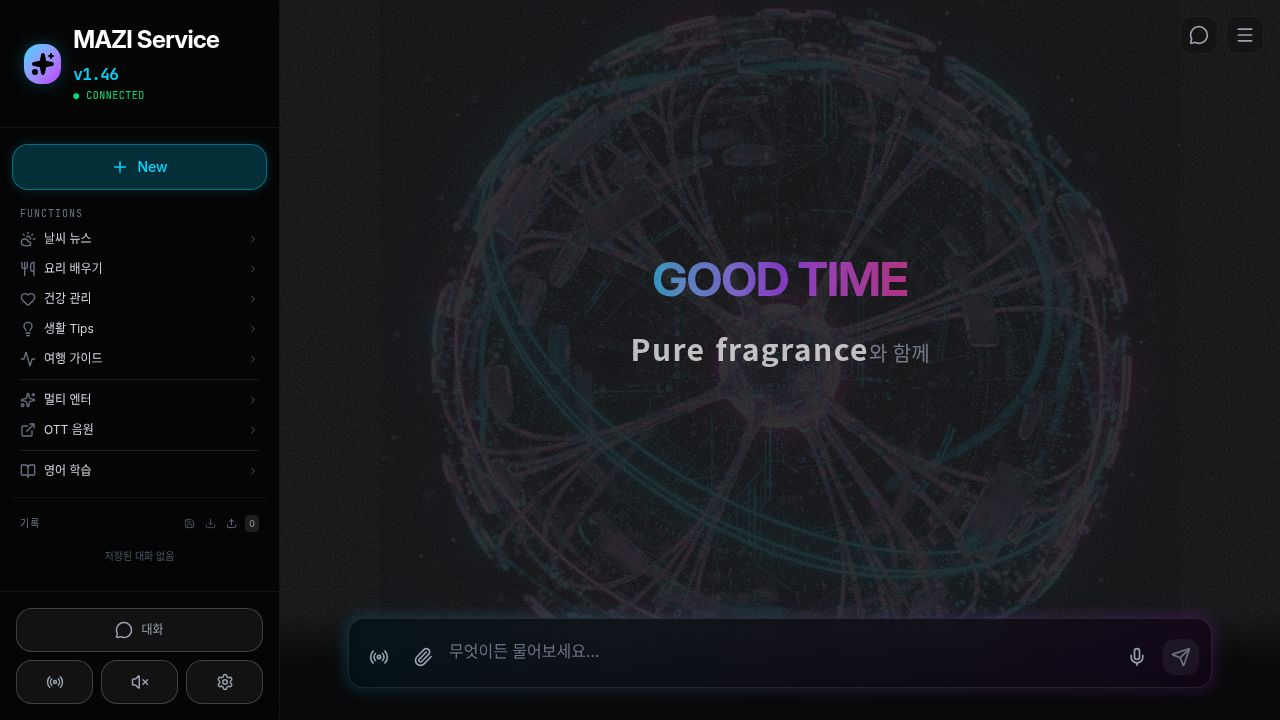
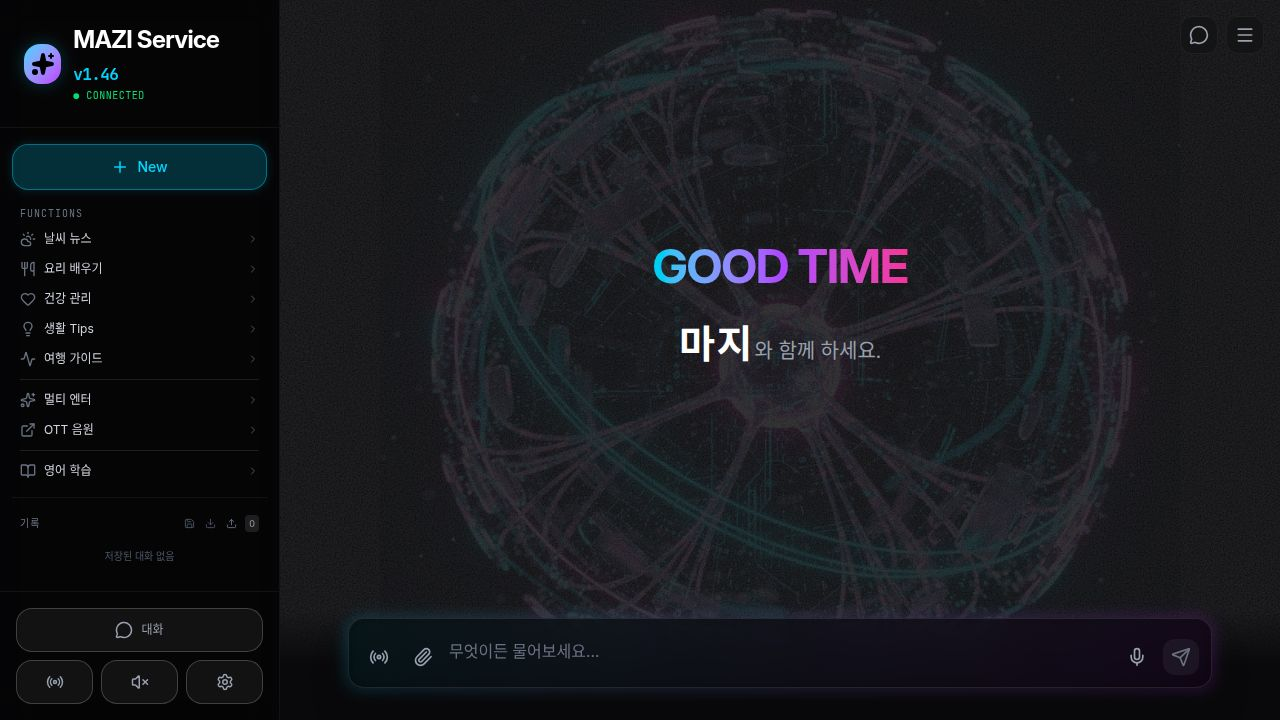
Update app's introductory text and adjust font size for "마지"
Adjust the main heading text from "Pure fragrance" to "마지와 함께 하세요." and increase the font size of "마지" by 30% in Home.tsx.

Replit-Commit-Author: Agent
Replit-Commit-Session-Id: b53bbd0a-6b91-4287-a6fb-4cf35cea0462
Replit-Commit-Checkpoint-Type: full_checkpoint
Replit-Commit-Event-Id: 31b50eb6-4c58-4eb1-b888-f7fe3aea3782
Replit-Commit-Screenshot-Url: https://storage.googleapis.com/screenshot-production-us-central1/17fa975f-c6c1-48b8-9661-623460284cfc/b53bbd0a-6b91-4287-a6fb-4cf35cea0462/v74QcgZ
Replit-Helium-Checkpoint-Created: true

Changed region(s): [[0.5, 0.3361, 0.7188, 0.4278], [0.5, 0.4583, 0.7188, 0.5194]]

diff --git a/client/src/pages/Home.tsx b/client/src/pages/Home.tsx
@@ -948,7 +948,7 @@ export default function Home() {
                   GOOD TIME
                 </h2>
                 <p className="text-lg md:text-xl text-gray-400 mt-4">
-                  <span className="text-[1.5em] text-white font-bold tracking-wider" style={{fontFamily: '"Noto Sans KR", "Malgun Gothic", "Apple SD Gothic Neo", sans-serif'}}>Pure fragrance</span>와 함께
+                  <span className="text-[1.95em] text-white font-bold tracking-wider" style={{fontFamily: '"Noto Sans KR", "Malgun Gothic", "Apple SD Gothic Neo", sans-serif'}}>마지</span>와 함께 하세요.
                 </p>
               </motion.div>
             </div>
